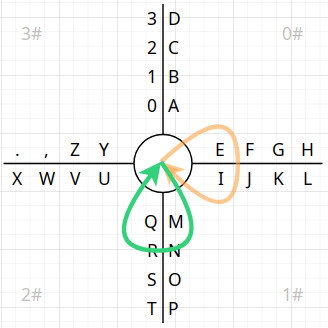
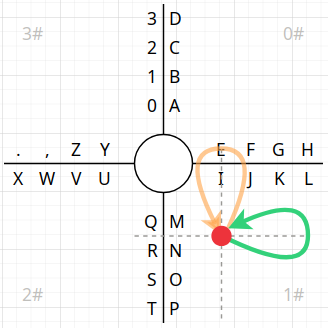
Docs: 更新《十字型输入的交互设计》

diff --git a/docs/design/cross-mode.md b/docs/design/cross-mode.md
@@ -67,17 +67,17 @@ X 型输入的字符布局规则如下：
 - 分区与交叉线相交的两条边相互垂直，分配到该分区的字符将被进一步分配到两个侧边上
 - 交叉线从中心向外辐射，形成**辐射轴**，再沿轴的辐射方向，依次放置分配到侧边上的字符，
   且最多可放置四个字符
-- 经过以上三个维度的布局，在 X 型输入中，可以最多放置 `4（个分区）x 2（条分区边）x 4（个字符）= 32`
-  个字符
+- 经过 `(分区, 分区侧边, 轴序号)` 三个坐标的布局，在 X 型输入中，可以最多放置
+  `4（个分区）x 2（条分区侧边）x 4（个字符）= 32` 个字符
 
 而其输入逻辑如下（以上图中的字符 `O` 的输入为例，并将四个分区按位置命名为上、下、左、右分区）：
 
-- 从中心原点出发，滑入字符 `O` 所在的`上分区`。这表示激活对该分区字符的选择
+- 从中心红点出发，滑入字符 `O` 所在的`上分区`。这表示激活对该分区字符的选择
 - 由于 `O` 在分区的左侧边上，因此，需沿逆时针方向，滑入`左分区`。这表示选择`上分区`左侧边的字符
-- 继续保持滑行方向不变，滑入`下分区`，并直接滑回中心原点。这表示选择沿轴辐射方向上的第二个字符，
+- 继续保持滑行方向不变，滑入`下分区`，并直接滑回中心红点。这表示选择沿轴辐射方向上的第二个字符，
   也就是当前所要输入的字符 `O`
-- 其中，手指滑过的分区数量，对应的便是字符在辐射轴上的位置
-- 并且，只有滑回中心原点，才表示一个字符输入过程的结束
+- 其中，手指滑过的分区数量，对应的便是字符在辐射轴上的位置，
+  并且，只有滑回中心红点，才表示一个字符输入过程的结束
 
 下面是 8VIM 的输入演示视频，可以更直观地理解以上输入过程：
 
@@ -85,7 +85,7 @@ https://github.com/user-attachments/assets/3b5f2503-4852-4678-acd8-6f599eb523cd
 
 可以发现，X 型输入具备以下优点：
 
-- 充分利用分区、分区侧边、轴辐射方向三个**空间维度**来**布局字符**，在保证输入字符全部可见的前提下，
+- 充分利用分区、分区侧边、轴的辐射方向三个**空间维度**来**布局字符**，在保证输入字符全部可见的前提下，
   使得操作空间更大
 - 通过滑行运动方向和经过的分区数量的方式**定位字符**，充分利用**运动维度**，
   实现了对目标输入的精准定位
@@ -93,8 +93,8 @@ https://github.com/user-attachments/assets/3b5f2503-4852-4678-acd8-6f599eb523cd
 - 多个字符可以连续输入，手指不用离开屏幕，对常用单词，比较容易形成固定的输入轨迹，
   从而快速完成输入
 
-但该输入模式存在的最大问题是，无法形成具备**唯一性**的滑行轨迹形状。
-因为，通过画圈时经过的分区数量来定位相应位置的字符，其形成的滑行轨迹都只是不同角度的圆弧，
+但该输入模式存在的最大问题是，无法形成具备**唯一性**的输入轨迹形状。
+因为，通过画圈时经过的分区数量来定位相应位置的字符，其形成的输入轨迹都只是不同角度的圆弧，
 如果视线脱离屏幕，仅凭感觉是难以保证输入的准确性的。
 
 并且，不同位置的字符，其滑行的弧度有大有小，即便是可连续输入，但在输入另一个不同位置的字符时，
@@ -110,7 +110,7 @@ https://github.com/user-attachments/assets/3b5f2503-4852-4678-acd8-6f599eb523cd
 > 依次向分区的左/右两侧各放置四个字符，直到字符全部放置完毕。
 
 十字型输入依然是通过四条轴将输入面板均分为四个分区，只是四条轴是在水平和垂直方向进行交叉的，
-构成一个「十」字，而不像 X 型输入是做了 45 度旋转，形成的是一个 `X`。
+构成一个「十」字，而不像 X 型输入是做了 45° 旋转，形成的是一个 `X`。
 
 为方便说明该模式的输入过程，这里将均分的四个分区沿顺时针方向依次标注为
 `0#`、`1#`、`2#` 和 `3#`，同样地，
@@ -119,12 +119,12 @@ https://github.com/user-attachments/assets/3b5f2503-4852-4678-acd8-6f599eb523cd
 下面以输入字符 `B` 为例，说明十字型输入的字符输入逻辑。
 
 **第一步**：选中目标输入字符所在分区的侧边。
-即，从中心原点出发滑入字符 `B` 所在的 `0#` 分区，接着，沿逆时针方向滑入 `3#`
-分区，再滑回到中心原点：
+即，从中心出发滑入字符 `B` 所在的 `0#` 分区，接着，沿逆时针方向滑入 `3#`
+分区，再滑回到中心：
 
 ![](./cross-mode/20-lantin-input-active-zone.png)
 
-> 注：若是最终依然从 `0#` 分区滑回中心原点，则表示取消对该分区字符的选择，
+> 注：若是最终依然从 `0#` 分区滑回中心，则表示取消对该分区字符的选择，
 > 可重新选择其他输入字符所在的分区。
 
 在选中分区侧边后，十字型输入将自动采用**动态布局**机制，
@@ -135,11 +135,11 @@ https://github.com/user-attachments/assets/3b5f2503-4852-4678-acd8-6f599eb523cd
 
 > 注：这里的布局展开规则为，从 `0#` 分区开始，沿顺时针方向依次向各个分区放置字符。
 
-**第二步**：选择目标输入字符。即，继续从中心原点滑入布局展开后字符 `B` 所在的 `1#` 分区。
+**第二步**：选择目标输入字符。即，继续从中心滑入布局展开后字符 `B` 所在的 `1#` 分区。
 此时，由于每个字符均独占一个分区，而在分区内滑行又有逆时针和顺时针两个方向可以选择，
 这正好可以用于区分字符的大小写两种形式。因此，这里暂且规定，若从 `1#`
-分区逆时针方向滑入 `0#` 分区并滑回中心原点，则输入大写字符 `B`，
-而若沿顺时针方向从 `1#` 分区滑入 `2#` 分区再滑回中心原点，则输入小写字符
+分区逆时针方向滑入 `0#` 分区并滑回中心，则输入大写字符 `B`，
+而若沿顺时针方向从 `1#` 分区滑入 `2#` 分区再滑回中心，则输入小写字符
 `b`（其本质就是，在分区的左侧边放置字符大写的形式，在分区右侧边放置字符的小写形式）：
 
 - 逆时针输入字符的大写形式
@@ -150,12 +150,12 @@ https://github.com/user-attachments/assets/3b5f2503-4852-4678-acd8-6f599eb523cd
 
   ![](./cross-mode/20-lantin-input-lower-b.png)
 
-> 注：若是最终依然从 `1#` 分区滑回中心原点，则表示取消对字符 `B` 的选择，可重新选择其他字符。
+> 注：若是最终依然从 `1#` 分区滑回中心，则表示取消对字符 `B` 的选择，可重新选择其他字符。
 
 至此，通过两步滑行，便可唯一确定大写或小写形式的字符 `B`。
 
 在完成字符的输入后，输入面板将自动恢复到初始布局。因此，无需中断滑行，
-可继续从中心原点滑入目标输入字符所在的分区（比如 `1#`），并按照上述过程输入其他字符即可：
+可继续从中心滑入目标输入字符所在的分区（比如 `1#`），并按照上述过程输入其他字符即可：
 
 ![](./cross-mode/20-lantin-input-another.png)
 
@@ -171,17 +171,56 @@ https://github.com/user-attachments/assets/3b5f2503-4852-4678-acd8-6f599eb523cd
 
 从中可以发现十字型输入的以下特点：
 
-- 每个字符需要且仅需要两次滑行便可完成输入
-- 每个字符的滑行轨迹都是由两个 `O` 以水平、垂直或重叠的方式组成
-- 通过两个 `O` 的组合形式，以及轨迹滑行的运动方向，便可唯一确定全部输入字符
-- 每个字符的轨迹是相似的，滑行次数是相同的，故其相互之间没有优先级关系，都是平等的，
-  因此，不需要按照使用频率等因素来确定字符的布局，直接按字母顺序沿顺时针方向放置即可
+- 每个字符需要且仅需要两次滑行便可完成输入，且其定位坐标为 `(分区, 分区侧边, 分区, 分区侧边)`
+- 两次滑行均需以固定的位置作为起止点，故而，可将该起止点称为**轨迹原点**，
+  在轨迹原点半径范围内的滑入滑出均视为滑行的有效起止点
+- 每次滑行形成的轨迹都是一个椭圆形，并且以十字型输入的辐射轴为椭圆的长轴
+- 两个椭圆形会以水平、垂直或重叠的形式组成字符的输入轨迹
+- 通过两个椭圆轨迹的不同组合，以及在椭圆上的滑行方向（顺时针或逆时针），便可唯一确定全部输入字符
+- 每个字符的轨迹都是相似的，滑行次数也是相同的，故其相互之间没有优劣之分，
+  因此，不需要按照使用频率等因素来确定字符的布局，直接按字母顺序沿顺时针方向依次放置即可
 
-之所以采用「十」字形输入，而非「X」形，
-一个原因是，在十字形上绘制的滑行轨迹会被限定在垂直和水平方向上，更便于程序分析，
-而最重要的原因是，在水平或垂直方向上滑行，会比在倾斜方向上滑行，更加方便和准确。
+若是在输入轨迹上加上运动方向，则可以看到，输入轨迹中的两个椭圆是具有**方向性**的，
+且从轨迹原点出发，仅有顺时针和逆时针两个方向。因此，我们可以用以下两个箭头代表不同方向的椭圆：
 
-而对于盲打的输入支持，可以详见章节[《盲打输入模式》](#盲打输入模式)。
+- 背离轨迹原点的箭头：其箭头从原点指向外部，用以表示沿逆时针方向滑行的椭圆
+- 指向轨迹原点的箭头：其箭头从外部指向原点，用以表示沿顺时针方向滑行的椭圆
+
+这样，便可以得到如下图所示的输入轨迹与箭头的映射关系：
+
+- 逆时针输入轨迹与箭头
+
+  ![](./cross-mode/40-input-trace-to-vector-vertical.png)
+
+- 顺时针输入轨迹与箭头
+
+  ![](./cross-mode/40-input-trace-to-vector-horizontal.png)
+
+之所以将椭圆轨迹简化为箭头，是因为，椭圆轨迹是一条曲线，由多个点组成，
+而箭头本质是一个向量，仅需要两个点便可确定。并且，从椭圆简化为向量的过程也很简单，只需要：
+
+- 以轨迹原点为中心，绘制横纵坐标轴，即，一个「十」字
+- 椭圆轨迹与坐标轴相交的点便为其长轴的端点，其包含轨迹原点
+- 椭圆轨迹长轴的端点便是其对应向量的起止点
+- 分析椭圆轨迹上点的运动方向，便可确定椭圆方向，进而确定向量方向，最终完成转换
+
+沿横纵坐标可以定义 `4` 组向量，每组向量有 `2` 个向量，而每个向量可以有 `4` 个方向，
+所以，通过向量可以表示 `4 * 2 * 4 = 32` 个输入轨迹，
+正好与十字型输入可布局的最大字符数相等，进一步证明二者的转换是等效的。
+
+在确定了从椭圆轨迹到向量的转化规则后，字符输入便可摆脱布局空间的限制，可以以任意点为轨迹原点，
+只要滑行轨迹能够正确转换为两个水平或垂直方向上的向量即可。
+
+下图表示的是从非中心位置开始的字符输入轨迹，其对应的是小写字符 `f` 的输入：
+
+![](./cross-mode/50-lantin-blind-hit.png)
+
+> 注：对于盲打的输入支持，可以详见章节[《盲打输入模式》](#盲打输入模式)。
+
+从以上分析不难发现，十字型输入的轨迹图形更便于做程序分析，其仅涉及垂直和水平两个方向，而
+X 型输入则需要做 45° 转换处理。更重要的是，围绕十字形的轴线画椭圆仅需较小幅度的分区跨越即可，
+也就是，椭圆轨迹的短轴可以很短，但 X 型输入滑行的椭圆轨迹的短轴则相对要更长一些，
+因此，十字型输入会比 X 型输入更方便、更省力、更准确。
 
 ### 拼音输入模式
 
@@ -218,8 +257,8 @@ m |20| m, ma,mai,man,mao,mang, me,mei,men,meng, mi,mie,min,miu,mian,miao,ming, m
 盲打输入会对使用者提出以下要求：
 
 - 需在大脑中记住初始布局，再根据动态布局的规则，在输入过程中，快速绘制出展开后的字符布局
-- 快速确定出「从初始布局到完成字符输入」所形成的滑行轨迹和运动方向
-- 协调手指做出响应，从键盘输入分区的任意位置开始，沿着大脑确定出的滑行轨迹和运动方向，迅速滑出字符的输入轨迹
+- 快速确定出「从初始布局到完成字符输入」所形成的输入轨迹和运动方向
+- 协调手指做出响应，从键盘输入分区的任意位置开始，沿着大脑确定出的输入轨迹和运动方向，迅速滑出字符的输入轨迹
 - 回到第一步，按照相同步骤，继续下一个字符的输入，直到输入全部完成
 
 > 注：只需要记住动态布局的规则，并不需要记住每个字符的布局位置。
@@ -241,43 +280,21 @@ m |20| m, ma,mai,man,mao,mang, me,mei,men,meng, mi,mie,min,miu,mian,miao,ming, m
 **开个小差**：既然有「面板投屏」了，那么就可以内置一些滑屏类小游戏，比如，贪吃蛇、吃豆人等，
 作为放松娱乐之用 ;-)。
 
-虽然，十字型输入形成的字符输入轨迹是由两个 `O` 组成，并且具有方向性，
-但在滑行轨迹识别上，我们可以将两个 `O` 的绘制简化为两个向量，再对两个向量组成的结果进行分析即可。
-
-很容易发现，每个 `O` 仅有逆时针和顺时针两种滑行方式，因此，可以约定：
-
-- 沿逆时针方向滑行的 `O` 用箭头背离中心原点的向量表示
-- 沿顺时针方向滑行的 `O` 用箭头指向中心原点的向量表示
-
-这样，便可以得到如下图所示的轨迹与向量的映射关系（暂且用箭头表示向量）：
-
-![](./cross-mode/40-input-trace-to-vector.png)
-
-经过向量简化后，轨迹识别将转换为以下处理过程：
-
-- 确定两个 `O` 的交叉点，并以交叉点作为轨迹的原点
-- 找到 `O` 向外的顶点，即，在其周围绘制一个矩形，其与矩形的边刚好相交的点
-- 根据轨迹运动方向，确定其为顺时针还是逆时针方向，进而得到从 `O` 的顶点到原点方向上的向量
-- 将得到的真实的滑行向量与字符理想的滑行向量相比对，若二者相同，则表示需输入该字符
-
-所以，只需要能够识别出轨迹，便可直接打出对应的字符，而不必等待面板对动态布局的视图刷新。
-如下图所示，动态布局还未在视图上开始刷新，字符 `f` 便已输入完成了：
-
-![](./cross-mode/50-lantin-blind-hit.png)
-
 ### 其他
 
 - 可在四个字符分区各放置一到两个功能按键
 - 如何自然地切换到数字、算术等输入键盘？
-  - 在中心原点画圈，类似于拨动旋钮，根据画圈的数量来循环切换不同的输入
+  - 在中心画圈，类似于拨动旋钮，根据画圈的数量来循环切换不同的输入
+    - 模拟阻尼滚轮
   - 符号、表情等，仅放置常用的，更多的选择，需点击切换按键再做选择
 - 拼音候选字、表情、符号等输入字符过多，依然采用按键输入模式，不考虑滑行输入，
   但可以考虑在滑行输入的初始布局的空位中放置常用的表情和符号
-- 由于字符输入的路径长度相同，因此，在初始布局中无需考虑字符的高频性，
-  直接以最简单的规则（比如，按字母顺序）布局字符即可
-  - 但对第二维度的字符展开后，则需要考虑以更顺滑的轨迹（不出现逆拐）完成对高频字符的输入
 - 英文补全内容（输入补全）、拼音高频字（候选字）均以气泡形式展示在键盘上方并自带序号
   - 如何在输入过程中，通过滑屏手势平滑地根据序号选中输入补全或候选字？
   - 也可以不选择，所以，不能干扰正常的字符输入过程，避免在输入间隙强制插入「输入选择」过程
+  - 英文补全可以在滑行完成第一个椭圆轨迹时进行选择，
+    此时，通过在原点上画圈的方式对输入补全做选择，画圈的数量决定选中第几个补全，
+    且一旦开始画圈，字符布局便恢复初始布局，可直接选中补全并开始新的输入
+    - 第一次滑行可用于确定当前已输入的可选后继字符，以便于基于此确定待补全的内容
 - 可否支持通过滑屏手势，对输入列表中的输入做选择和删除？
   - 在选中输入后释放手指，则自动进入输入修改或拼音候选字选择模式
